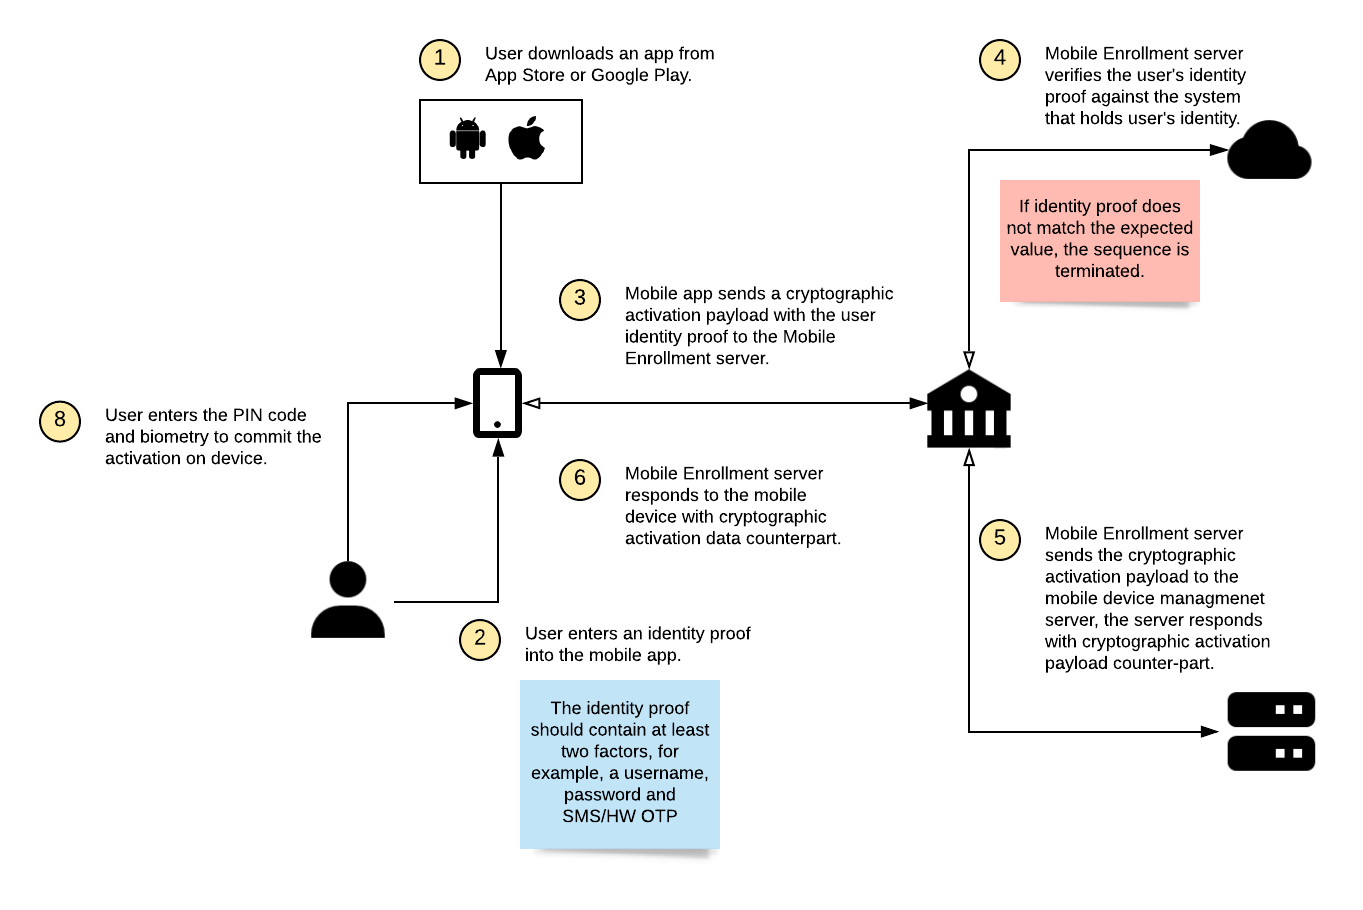
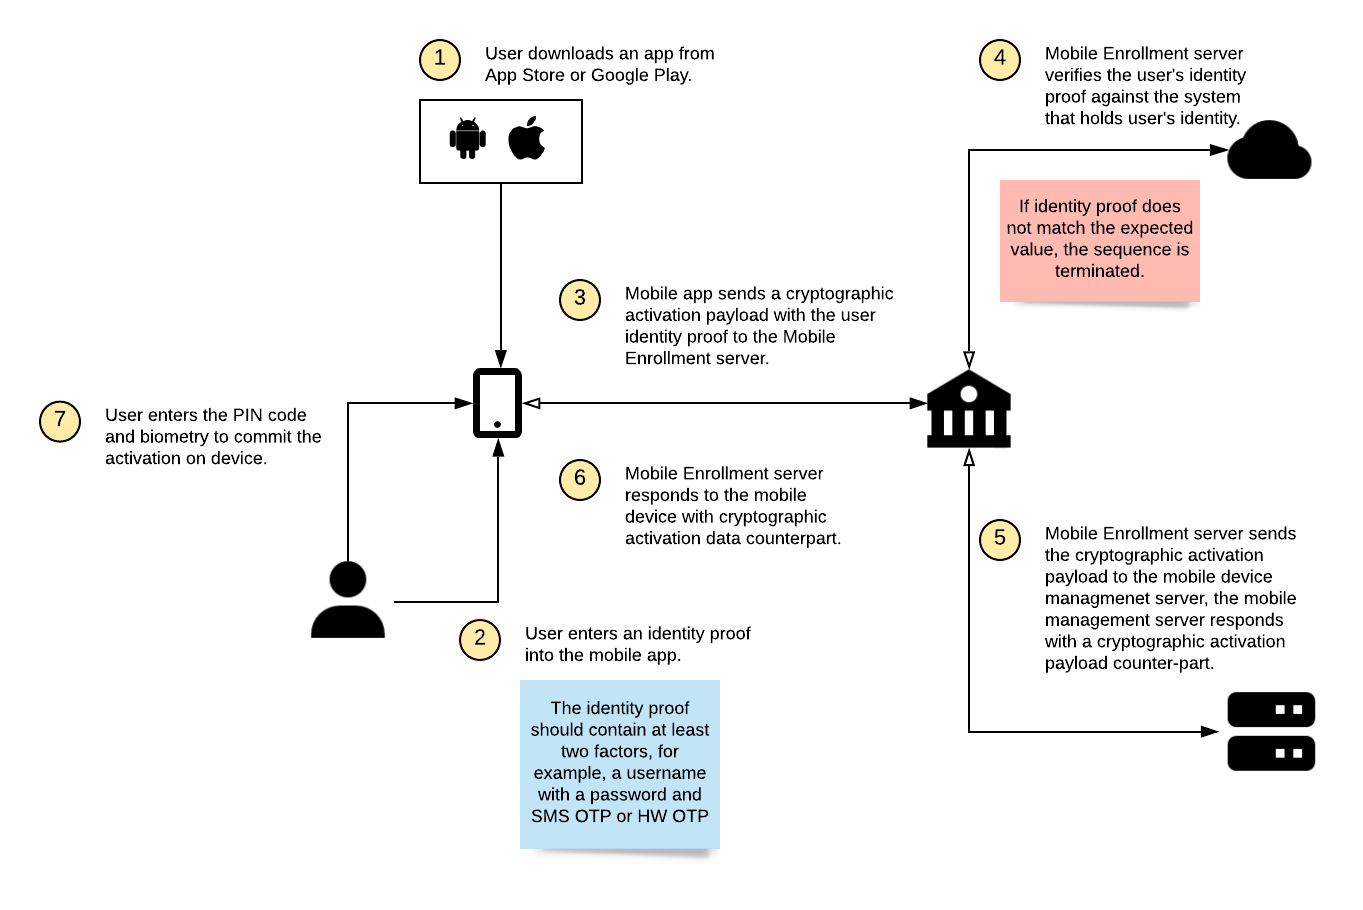
Update the tutorial for mobile authentication

Changed region(s): [[0.7704, 0.5846, 0.9552, 0.7385], [0.4006, 0.8308, 0.5238, 0.9231]]

diff --git a/docs/tutorials/Authentication-in-Mobile-Apps/Readme.md b/docs/tutorials/Authentication-in-Mobile-Apps/Readme.md
@@ -2,29 +2,31 @@
 
 <!-- AUTHOR joshis_tweets 2020-05-04T00:00:00Z -->
 
-In this tutorial, we will show you how you can implement authentication into your mobile banking or fintech apps. The tutorial has four parts:
+In this tutorial, we will show you how to implement authentication into your mobile banking or fintech apps. This tutorial has four parts:
 
-- Overview
+- **Mobile Authentication Overview**
 - [Tutorial for Server Side Developers](./Server-Side-Tutorial.md)
 - [Tutorial for iOS Developers](./iOS-Tutorial.md)
 - [Tutorial for Android Developers](./Android-Tutorial.md)
 
-## Overview
+## Mobile Authentication Overview
 
-Authentication is a process of verifying the user's identity, usually performed in order to manage access to an application or in order to approve a transaction, such as payment, using a reliable user identity proof. In case of the banking systems, managing access to systems and transaction signing are two critical requirements from both security and compliance standpoint.
+Authentication is a process of verifying the user's identity. It is usually performed to manage access to an application (login) or in order to approve a transaction, such as payment, using a reliable user identity proof. In case of the banking systems, managing access to systems and transaction signing are two critical requirements from both security and compliance perspective.
 
-In terms of the security, well-designed authentication and operation approval improves the confidentiality of the information, since only the correct users can access the particular data set. At the same time, it protects from manipulating the financial transactions, since each payment has a strong cryptographic proof of the user who approved it.
+In the terms of the security, a well-designed authentication and operation approval system improves the confidentiality of the financial information, since only the correct users can access the particular account information. At the same time, it prevents money loss by protecting the financial transactions from being manipulated, since each payment has a strong cryptographic proof (such that cannot be forged, replayed, or connected to other transaction) of the user who approved it.
 
-In terms of the compliance, these mechanisms are required for example to comply with the European PSD2 legislation and its requirements on Strong Customer Authentication (SCA).
+In the terms of the compliance, these mechanisms are required for example to comply with the European PSD2 legislation and its requirements on Strong Customer Authentication (SCA).
 
-[Mobile Security Suite](https://www.wultra.com/mobile-security-suite) is a simple plugin (SDK) for iOS and Android apps that - together with its server counterparts - covers the authentication functionality, allowing the end-users to login or sign payments using simple PIN code or a biometry. It also covers all related use-cases, such as authentication element lifecycle (active, blocked, removed), PIN code change, biometry settings, etc.
+Last but not least, correctly designed cryptographic protocol for authentication usually improves the user experience, since the users can login or approve a payment with a simple PIN code instead of a long password, or with a biometric authentication.
+
+[Mobile Security Suite](https://www.wultra.com/mobile-security-suite) is a plugin (SDK) for iOS and Android apps that - together with its server counterparts - covers the authentication and transaction signing functionality, allowing the end-users to login or approve payments using PIN code or biometry. It also covers all related use-cases, such as authentication element lifecycle (active, blocked, removed), PIN code change, biometry settings, etc. It uses [an open-source cryptographic PowerAuth protocol](../powerauth-crypto/index) that is trusted by leading banks and financial institutions to back the authentication-related processes with strong cryptography.
 
 
 ## Activation
 
-When a user downloads a mobile app, be it for iOS or Android, this app is always blank, non-personalized app. Basically the same app for all users. In order to connect the app with the user account, the user needs to "activate" the application first. This requires an interplay between the mobile app and the server components, as well as a user providing an identity proof (some credentials) that could be used to identify the user reliably. This initial process is sometimes called registration, enrollment, personalization. Our term for this process is **"Activation"**, though.
+When a user downloads a mobile app for iOS or Android, this app is always a blank, non-personalized app. Basically, it is the same app for all users who download it. In order to connect the app with the user account, the user needs to "activate" the application first. This requires an interplay between the mobile app and server components, as well as a user providing credentials as an identity proof that could be used to identify the user reliably. We call this initial process **Activation**. Sometimes, it is also referred to as registration, enrollment, or personalization, and these terms can be used interchangeably with confidence.
 
-The activation can be either performed fully on the mobile device (it is initiated and completed on the mobile device) or in an "out-of-band" mode (initiated externally, for example, in the Internet banking, and completed on the mobile device and in the external systems).
+In the case of Mobile Security Suite, the activation can be either performed fully on the mobile device (it is both initiated and completed on the mobile device), or in an "out-of-band" mode (initiated externally, for example, in the Internet banking, and completed both on the mobile device and in the external systems that initiated the activation).
 
 ### On-Device Activation
 
@@ -34,56 +36,44 @@ The high-level overview of the on-device activation steps is captured in this di
 
 As you can see, this diagram is relatively simple and straight-forward.
 
-You have the following actors:
-
-- **The end-user** who downloads an app from App Store or Google Play.
-- **The mobile app** with our SDK that sends cryptographic activation payload, alongside with a user's identity proof, to the mobile enrollment server, and stores the resulting transaction signing keys later in the process.
-- **The mobile enrollment server** that is responsible for orchestrating the activation process by first verifying the identity proof against some existing system, and then creating a new activation record in the mobile management server.
-- **An external system for verifying the credentials** - this is usually a customer specific component, such as CRM, IDM, etc. and connecting to this component requires customization.
-- **Mobile management server**, the main component that stores the enrolled mobile devices and their cryptographic material, attached to the user via the user ID value.
-
 ### Out-of-Band Activation
 
 The high-level overview of the out-of-band activation steps is captured in this diagram:
 
 ![ Activation - In out-of-band mode ](./01b.png)
 
-While this diagram seems a bit more complex, the process is still very simple. The main difference is in the initiation of the process, where some external system, in our case the Internet banking, must first fetch the activation code (usually represented by a QR code, link with the parameter, or a text value). Later in the process, the Internet banking must confirm the activation to make it useable.
+While this diagram seems a bit more complex, the process is still very simple. The main difference is in the initiation of the process, where some external system, in our case the Internet banking, must first fetch the activation code (usually represented by a QR code, link with the parameter, or a text value). Later in the process, the Internet banking must also confirm the activation in order to make it useable on the just activated device.
 
-You have the following actors:
+Unlike in the on-device activation, no external system for verifying the credentials is needed in this case, since the user is already signed in to the Internet banking, and the activation code is generated specifically for that particular user.
 
-- **The end-user** who downloads an app from App Store or Google Play.
-- **An internet banking application** (client and server side) where the user can sign in, initiate a new activation and after the mobile exchange is complete, confirm the activation.
-- **The mobile app** with our SDK that sends cryptographic activation payload, alongside with a user's identity proof, to the mobile enrollment server, and stores the resulting transaction signing keys later in the process.
-- **The mobile enrollment server** responsible for orchestrating the activation process by first verifying the identity proof and then creating a new activation record in the mobile management server.
-- **Mobile management server** - a component that stores the enrolled mobile devices and their cryptographic material.
+To understand this out-of-band process better, you can look at the activation code as at a special one-time token-like credentials for a given user that are managed in the mobile management server and will expire after a short time.
 
-Unlike in the on-device activation, no external system for verifying the credentials is needed in this case, since the user is already signed in to the Internet banking, and the activation code is generated for that particular user.
-
-You can look at the activation code in the case of the out-of-band mode is as at a special one-time credentials for a given user that are managed in the mobile device enrollment server.
-
-**Note: In both cases, the mobile app only communicates with the mobile enrollment server, never with mobile management server. Only back-end applications communicate to the mobile management server.**
+**Note: In both activation scenarios, the mobile app only communicates with the mobile enrollment server, never with the mobile management server. Only back-end applications communicate with the mobile management server.**
 
 ## Transaction Signing
 
-After the user activates the mobile app, it is ready for it's main use case: **"Transaction signing"**.
+After the user activates the mobile app, it is ready for its main use case: **Transaction signing**.
 
-The transaction signing is technically used for all types of approvals - login, payments, configuration changes, atd. In all cases, the user needs to enter a PIN code set during the activation process, or use biometry on the mobile device to compute the data signature. This signature is later verified on the server.
+The transaction signing is technically used for all types of operations - login, payments, configuration changes, etc. In all cases, the user needs to enter a PIN code set during the activation, or use biometry on the mobile device to compute a data signature that is later verified on the server-side.
 
-In case of the login, signature is computed just based on the user credentials. In the case of the payment or other similar operation that generally has some data assigned to it, the operation data also projects into the resulting signature. This dependency of a signature on the operation data is sometimes referred to as "dynamic linking".
+In case of the login, the signature is computed just based on that. In the case of the payment (or other similar operation that generally has some data assigned to it), the operation data is also reflected into the resulting signature.
 
-_Note: The PSD2 legislation mandates using at least data based on the other party account number and payment amount for the purpose of the dynamic linking._
+_Note: The PSD2 legislation uses the term "dynamic linking" for this dependency of the signature on the operation data. It mandates using at least the other party account number and a payment amount as data that enters the signature (in PSD2 terminology, the "Authentication Code")._
 
-The overview of the transaction signing is fairly simple:
+### Login
 
-![ Transaction Signing ](./02.png)
+The overview diagram of the transaction signing for login is fairly simple:
 
-As you can see, there are the following actors:
+![ Login ](./02a.png)
 
-- User
-- Mobile application
-- API Server
-- Mobile management server
+### Payment approval
+
+The overview diagram of the transaction signing for payment approval is not much different from the login diagram:
+
+![ Login ](./02b.png)
+
+The main difference is that after the successful signature verification, the payment is sent to the further processing after being approved by a given user.
+
 
 ## Other Use-Cases
 
